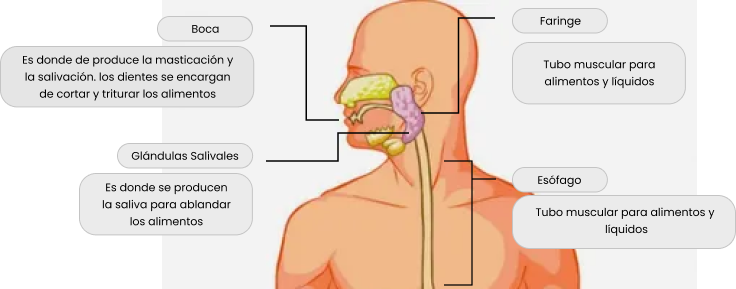
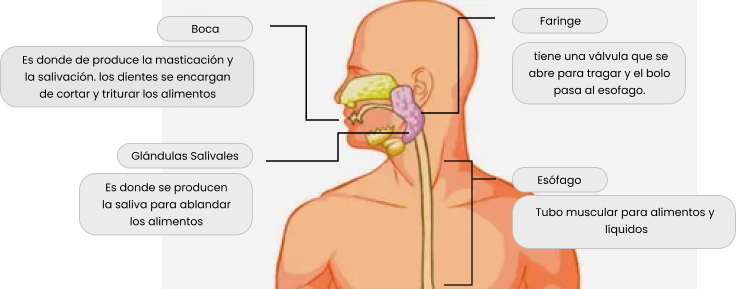
correccion primera fase

Changed region(s): [[0.7188, 0.1869, 0.9062, 0.3426]]

diff --git a/fase1.html b/fase1.html
@@ -75,7 +75,7 @@
                     </div>
                 </div>
                 <div id="7" class="interaction__opciones__opcion">
-                    Absorbe la mayor parte del material que ingieren los seres humanos.
+                    tiene una válvula que se abre para tragar y el bolo pasa al esofago.
                 </div>
                 <div id="8" class="interaction__opciones__opcion">
                     Tubo muscular para alimentos y líquidos.
